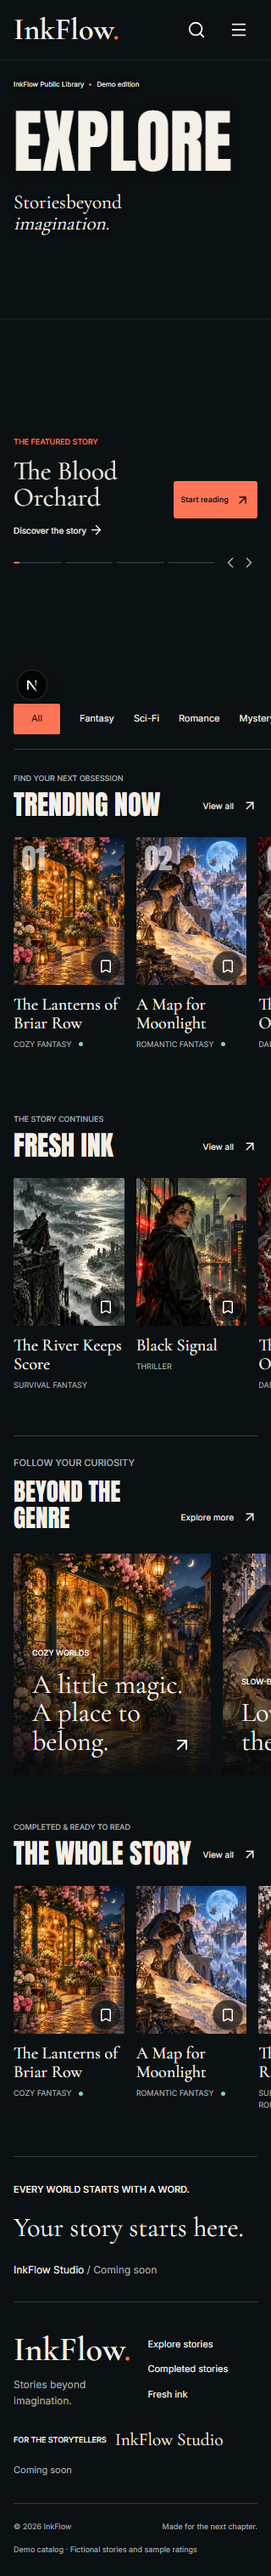
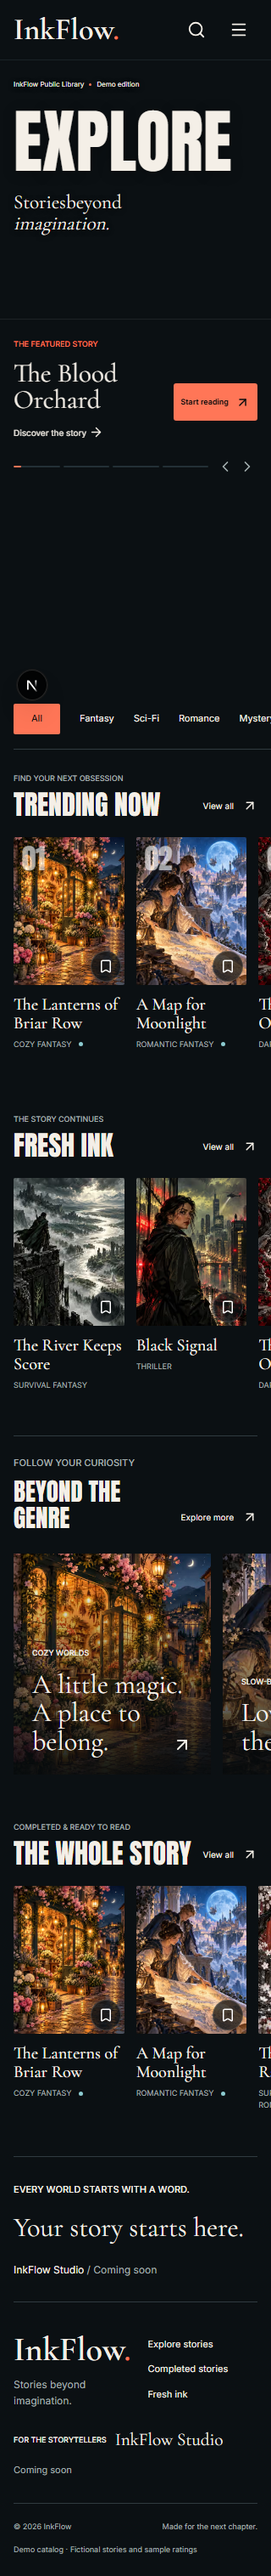
fix(home): align hero slider with plan — fix rail layout anchor and WCAG 2.2 arrow target size

Changed region(s): [[0.625, 0.1241, 0.9688, 0.2171], [0.0625, 0.1241, 0.375, 0.2171], [0.4062, 0.1551, 0.4375, 0.1861]]

diff --git a/src/app/globals.css b/src/app/globals.css
@@ -546,7 +546,7 @@ fieldset {
   display: flex;
   flex-direction: column;
   align-items: flex-start;
-  justify-content: center;
+  justify-content: flex-start;
   padding: 24px 14px 20px 20px;
   background: #0b1013ed;
   border-left: 1px solid #ffffff17;
@@ -674,8 +674,8 @@ fieldset {
   display: inline-flex;
   align-items: center;
   justify-content: center;
-  width: 24px;
-  height: 24px;
+  width: 36px;
+  height: 36px;
   padding: 0;
   background: transparent;
   border: 0;
@@ -2254,8 +2254,8 @@ input[type="radio"] {
     gap: 4px;
   }
   .hero-arrow-btn {
-    width: 20px;
-    height: 20px;
+    width: 24px;
+    height: 24px;
   }
   .hero-rail .text-link {
     font-size: 9px;
